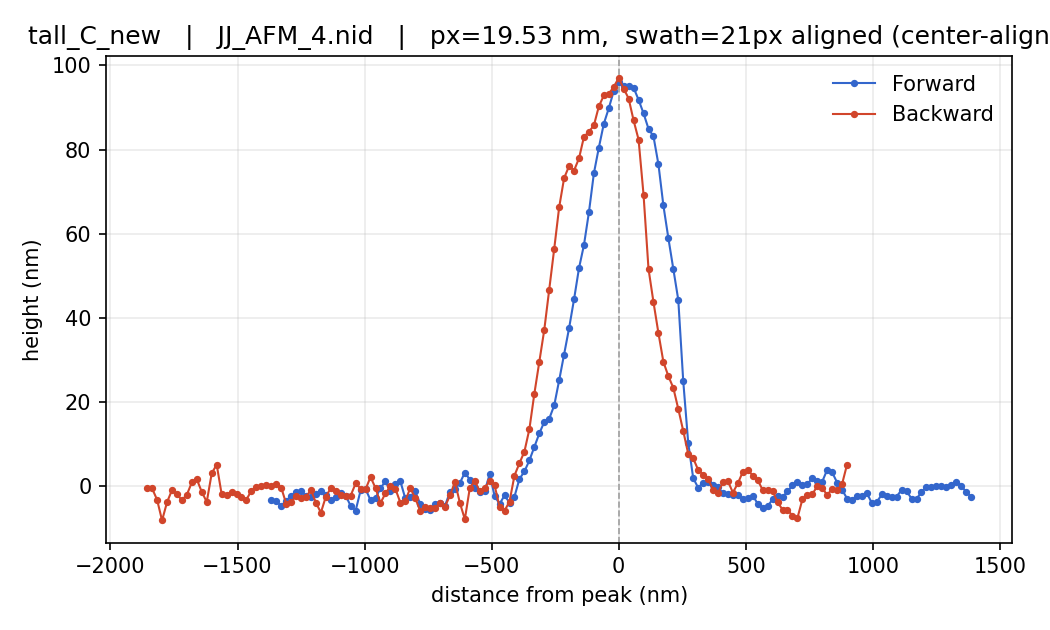
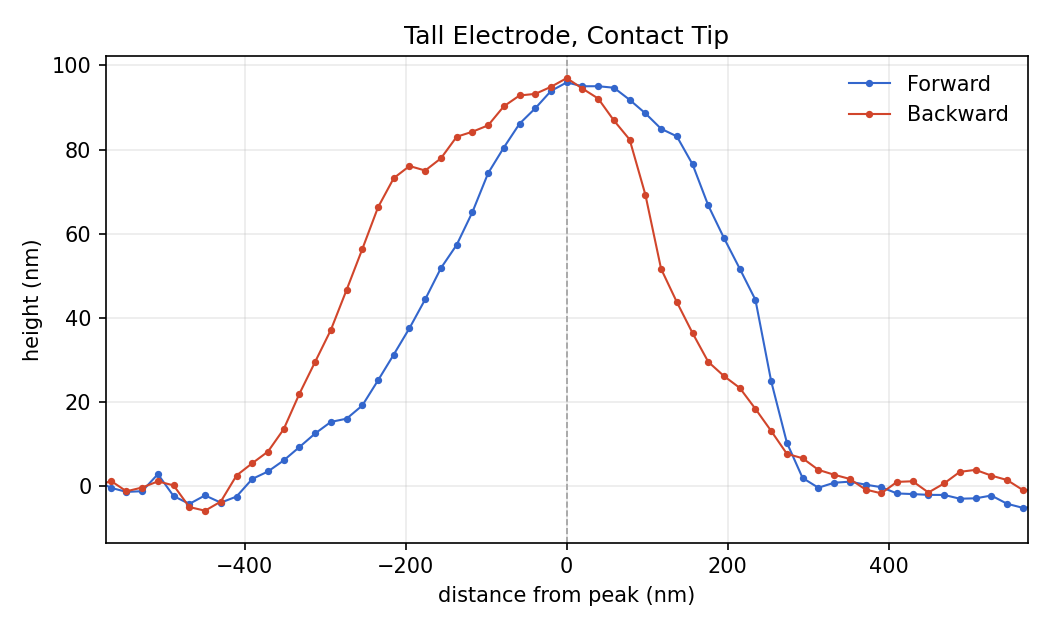
plot 막버전

diff --git a/26 고물실 1조/New_data_only/JJ_data_0603/plot_C_short_leveled.py b/26 고물실 1조/New_data_only/JJ_data_0603/plot_C_short_leveled.py
@@ -1,0 +1,96 @@
+"""Reproduce the "leveled" / "raw" / "d/dx" panels of measure_nid.py as standalone
+figures, for the Contact (JJ_AFM_4) and Non-contact (JJ_AFM_2) scans.
+
+Each scan's Forward Z-Axis is leveled with the interactive tool's masked degree-2
+polyfit (k=2.5, right_exclude=0) and rendered with viridis (leveled/raw) or RdBu_r
+(d/dx), origin lower, color-scaled to the 1st/99th percentile (symmetric for d/dx),
+exactly as measure_nid.py does. Output: a publication-style figure with nm/um axes
+and a colorbar, three per scan.
+
+Note: tall and short objects live in the SAME scan, so C_short == C_tall and
+NC_short == NC_tall for the full-image panels; outputs are named by tip mode (C/NC).
+
+Run from the repo root:  python New_data_only/JJ_data_0603/plot_C_short_leveled.py
+"""
+import os
+import sys
+
+import numpy as np
+import matplotlib
+
+matplotlib.use("Agg")
+import matplotlib.pyplot as plt
+
+# repo root = two levels up (New_data_only/JJ_data_0603/..) -> for repo-root imports
+HERE = os.path.dirname(os.path.abspath(__file__))
+REPO = os.path.abspath(os.path.join(HERE, "..", ".."))
+sys.path.insert(0, REPO)
+
+from NSFopen.read import read                  # noqa: E402
+from export_leveled import masked_polyfit      # noqa: E402
+from measure_nid import pixel_nm               # noqa: E402
+
+CHANNEL = "Forward"
+DEG, K, REX = 2, 2.5, 0.0                       # measure_nid.py interactive defaults
+
+JJ_DATA = os.path.join(REPO, "JJ_data")
+
+# (output dir, prefix, nid path relative to REPO).  tall/short share a scan, so the
+# full-image panels are named by tip mode (C/NC). Outputs land next to their nid.
+CASES = [
+    (HERE, "C", "New_data_only/JJ_data_0603/JJ_AFM_4.nid"),    # Contact, 20um (new)
+    (HERE, "NC", "New_data_only/JJ_data_0603/JJ_AFM_2.nid"),   # Non-contact, 20um (new)
+    (JJ_DATA, "C", "JJ_data/JJ_AFM_5.nid"),                    # Contact, 20um (old)
+    (JJ_DATA, "NC", "JJ_data/JJ_AFM_7.nid"),                   # Non-contact, 20um (old)
+]
+
+
+def render(grid, extent, out, vmin, vmax, cmap="viridis", clabel="height (nm)"):
+    """Save grid as a heatmap (origin lower) with the given color scale/colormap."""
+    fig, ax = plt.subplots(figsize=(6.0, 5.2))
+    im = ax.imshow(grid, origin="lower", cmap=cmap, vmin=vmin, vmax=vmax,
+                   extent=extent, aspect="equal")
+    ax.set_xlabel("x (µm)")
+    ax.set_ylabel("y (µm)")
+    cbar = fig.colorbar(im, ax=ax, fraction=0.046, pad=0.04)
+    cbar.set_label(clabel)
+    fig.tight_layout()
+    fig.savefig(out, dpi=200, bbox_inches="tight")
+    plt.close(fig)
+    print(f"saved: {out}  vmin/vmax=[{vmin:.3f}, {vmax:.3f}]")
+
+
+def process(out_dir, prefix, nid_rel):
+    afm = read(os.path.join(REPO, nid_rel))
+    z = np.asarray(afm.data[("Image", CHANNEL, "Z-Axis")], dtype=float)
+    rows, cols = z.shape
+
+    raw_nm = z * 1e9                                                    # m -> nm
+    lev_nm = masked_polyfit(z, k=K, deg=DEG, right_exclude=REX) * 1e9   # m -> nm
+    # d/dx along the fast-scan axis (columns) of RAW height, nm per pixel,
+    # like np.gradient(z, axis=1) -> the JS gradX in measure_nid.py
+    dx_nm = np.gradient(raw_nm, axis=1)
+
+    px_x = pixel_nm(afm, "X", cols)        # nm per pixel
+    px_y = pixel_nm(afm, "Y", rows)
+    # extent in micrometers for readable real-space axes
+    extent = [0, cols * px_x / 1000.0, 0, rows * px_y / 1000.0]
+
+    print(f"{prefix} ({nid_rel}): shape={rows}x{cols}  px=({px_x:.2f}, {px_y:.2f}) nm")
+    lev_lo, lev_hi = np.percentile(lev_nm, [1, 99])           # JS colorScale
+    raw_lo, raw_hi = np.percentile(raw_nm, [1, 99])
+    dx_lim = np.percentile(np.abs(dx_nm), 99) or 1e-9         # symmetric range
+    p = os.path.join(out_dir, prefix)
+    render(lev_nm, extent, f"{p}_short_leveled.png", lev_lo, lev_hi)
+    render(raw_nm, extent, f"{p}_short_raw.png", raw_lo, raw_hi)
+    render(dx_nm, extent, f"{p}_short_dx.png", -dx_lim, dx_lim,
+           cmap="RdBu_r", clabel="d/dx (nm/px)")
+
+
+def main():
+    for out_dir, prefix, nid_rel in CASES:
+        process(out_dir, prefix, nid_rel)
+
+
+if __name__ == "__main__":
+    main()

diff --git a/26 고물실 1조/New_data_only/JJ_data_0603/plot_hx_profiles.py b/26 고물실 1조/New_data_only/JJ_data_0603/plot_hx_profiles.py
@@ -31,6 +31,9 @@ from NSFopen.read import read                  # noqa: E402
 from export_leveled import masked_polyfit       # noqa: E402
 from measure_nid import pixel_nm                # noqa: E402
 
+# fraction of the x-axis the peak feature (~2*FWHM bump) should occupy
+PEAK_AXIS_FRAC = 0.70
+
 OUT_DIR = os.path.join(HERE, "hx_plots")
 
 # label, nid (repo-relative), channel, x0, y0, x1, y1   (coords as exported to CSV)
@@ -47,6 +50,14 @@ CASES = [
 
 SWATH = 21          # swath_px from the CSV (all rows)
 DEG, K, REX = 2, 2.5, 0.0   # interactive tool defaults (CSV stores no leveling params)
+
+
+def nice_title(label):
+    """'short_C_new' -> 'Short Electrode, Contact Tip' (size + tip mode only)."""
+    parts = label.split("_")
+    size = "Tall" if parts[0] == "tall" else "Short"
+    tip = "Contact" if parts[1] == "C" else "Non-contact"
+    return f"{size} Electrode, {tip} Tip"
 
 
 def bilinear(grid, c, r):
@@ -197,6 +208,17 @@ def analyze_profile(dist, prof, peak_avg_n, fwhm_band_sigma=1.0, basefrac=0.25):
                 peak_avg_count=len(avg_idx))
 
 
+def peak_xlim(dist, center, fwhm):
+    """x-limits centered on `center` so the ~2*FWHM peak fills PEAK_AXIS_FRAC
+    of the axis. Falls back to the full data range when FWHM is unavailable,
+    and clips to the data extent so we never pad past the measured profile."""
+    lo_data, hi_data = float(dist[0]), float(dist[-1])
+    if fwhm is None or (isinstance(fwhm, float) and math.isnan(fwhm)) or fwhm <= 0:
+        return lo_data, hi_data
+    half = fwhm / PEAK_AXIS_FRAC          # half-window: 2*FWHM bump -> ~70%
+    return max(lo_data, center - half), min(hi_data, center + half)
+
+
 def estimate_height(dist, prof, frac=0.25):
     """Sloped-baseline peak-minus-baseline height, for a CSV sanity check only
     (not plotted). Mirrors the auto-baseline path in measure_nid.analyze()."""
@@ -226,6 +248,7 @@ def main():
 
         dist, prof, cnt = sample_profile(lev, px_x, px_y, x0, y0, x1, y1, SWATH)
         height = estimate_height(dist, prof)
+        A = analyze_profile(dist, prof, peak_avg_n=2)
 
         print(f"{label:14s} {os.path.basename(nid_rel):40s} {px_x:7.2f} {len(prof):4d} "
               f"{cnt.min():2d}/{int(np.median(cnt)):2d}/{cnt.max():2d}{'':>8s} {height:10.2f}")
@@ -233,10 +256,10 @@ def main():
         # ---- plot: h(x) only (line + small markers, single color) ----
         fig, ax = plt.subplots(figsize=(7.0, 4.2))
         ax.plot(dist, prof, "-o", color="#3366cc", lw=1.0, ms=2.5, zorder=2)
+        ax.set_xlim(*peak_xlim(dist, A["center"], A["fwhm"]))
         ax.set_xlabel("distance (nm)")
         ax.set_ylabel("height (nm)")
-        ax.set_title(f"{label}   |   {os.path.basename(nid_rel)}   |   "
-                     f"px={px_x:.2f} nm,  swath={SWATH}px aligned")
+        ax.set_title(nice_title(label))
         ax.grid(True, alpha=0.25)
         fig.tight_layout()
         out = os.path.join(OUT_DIR, f"hx_{idx}_{label}.png")

diff --git a/26 고물실 1조/New_data_only/JJ_data_0603/plot_hx_profiles_fwbw.py b/26 고물실 1조/New_data_only/JJ_data_0603/plot_hx_profiles_fwbw.py
@@ -28,7 +28,8 @@ from NSFopen.read import read                                      # noqa: E402
 from export_leveled import masked_polyfit                          # noqa: E402
 from measure_nid import pixel_nm                                   # noqa: E402
 from plot_hx_profiles import (CASES, SWATH, DEG, K, REX,           # noqa: E402
-                              sample_profile, analyze_profile)
+                              sample_profile, analyze_profile,
+                              PEAK_AXIS_FRAC)
 
 OUT_DIR = os.path.join(HERE, "hx_plots")
 MD_OUT = os.path.join(HERE, "fwbw_fw_vs_bw_analysis.md")
@@ -44,6 +45,14 @@ STYLES = {
     "Forward":  dict(color="#3366cc", label="Forward"),
     "Backward": dict(color="#d1452b", label="Backward"),
 }
+
+
+def nice_title(label):
+    """'short_C_new' -> 'Short Electrode, Contact Tip' (size + tip mode only)."""
+    parts = label.split("_")
+    size = "Tall" if parts[0] == "tall" else "Short"
+    tip = "Contact" if parts[1] == "C" else "Non-contact"
+    return f"{size} Electrode, {tip} Tip"
 
 
 def profile_for(afm, channel, px_x, px_y, x0, y0, x1, y1):
@@ -70,6 +79,8 @@ def main():
         sigma_px = px_x / math.sqrt(6.0)          # lateral pixel sigma on FWHM
 
         per_ch = {}
+        fwhms = []                    # for the peak-zoom x-window (centered at 0)
+        xspan = 0.0                   # max |distance-from-peak| present in the data
         fig, ax = plt.subplots(figsize=(7.0, 4.2))
         for channel in present:
             dist, prof, cnt = profile_for(afm, channel, px_x, px_y, x0, y0, x1, y1)
@@ -77,15 +88,23 @@ def main():
             per_ch[channel] = dict(A, sigma_px=sigma_px,
                                    fwhm_tot=math.hypot(A["fwhm_err"], sigma_px)
                                    if not math.isnan(A["fwhm_err"]) else float("nan"))
+            if not math.isnan(A["fwhm"]) and A["fwhm"] > 0:
+                fwhms.append(A["fwhm"])
+            rel = dist - A["center"]
+            xspan = max(xspan, abs(rel[0]), abs(rel[-1]))
             st = STYLES[channel]
-            ax.plot(dist - A["center"], prof, "-o", color=st["color"],
+            ax.plot(rel, prof, "-o", color=st["color"],
                     lw=1.0, ms=2.5, label=st["label"])
+
+        # zoom so the ~2*FWHM peak fills ~PEAK_AXIS_FRAC of the (symmetric) axis
+        if fwhms:
+            half = min(xspan, max(fwhms) / PEAK_AXIS_FRAC)
+            ax.set_xlim(-half, half)
 
         ax.axvline(0, color="0.6", lw=0.8, ls="--", zorder=0)
         ax.set_xlabel("distance from peak (nm)")
         ax.set_ylabel("height (nm)")
-        ax.set_title(f"{label}   |   {os.path.basename(nid_rel)}   |   "
-                     f"px={px_x:.2f} nm,  swath={SWATH}px aligned (center-aligned)")
+        ax.set_title(nice_title(label))
         ax.grid(True, alpha=0.25)
         ax.legend(frameon=False)
         fig.tight_layout()
